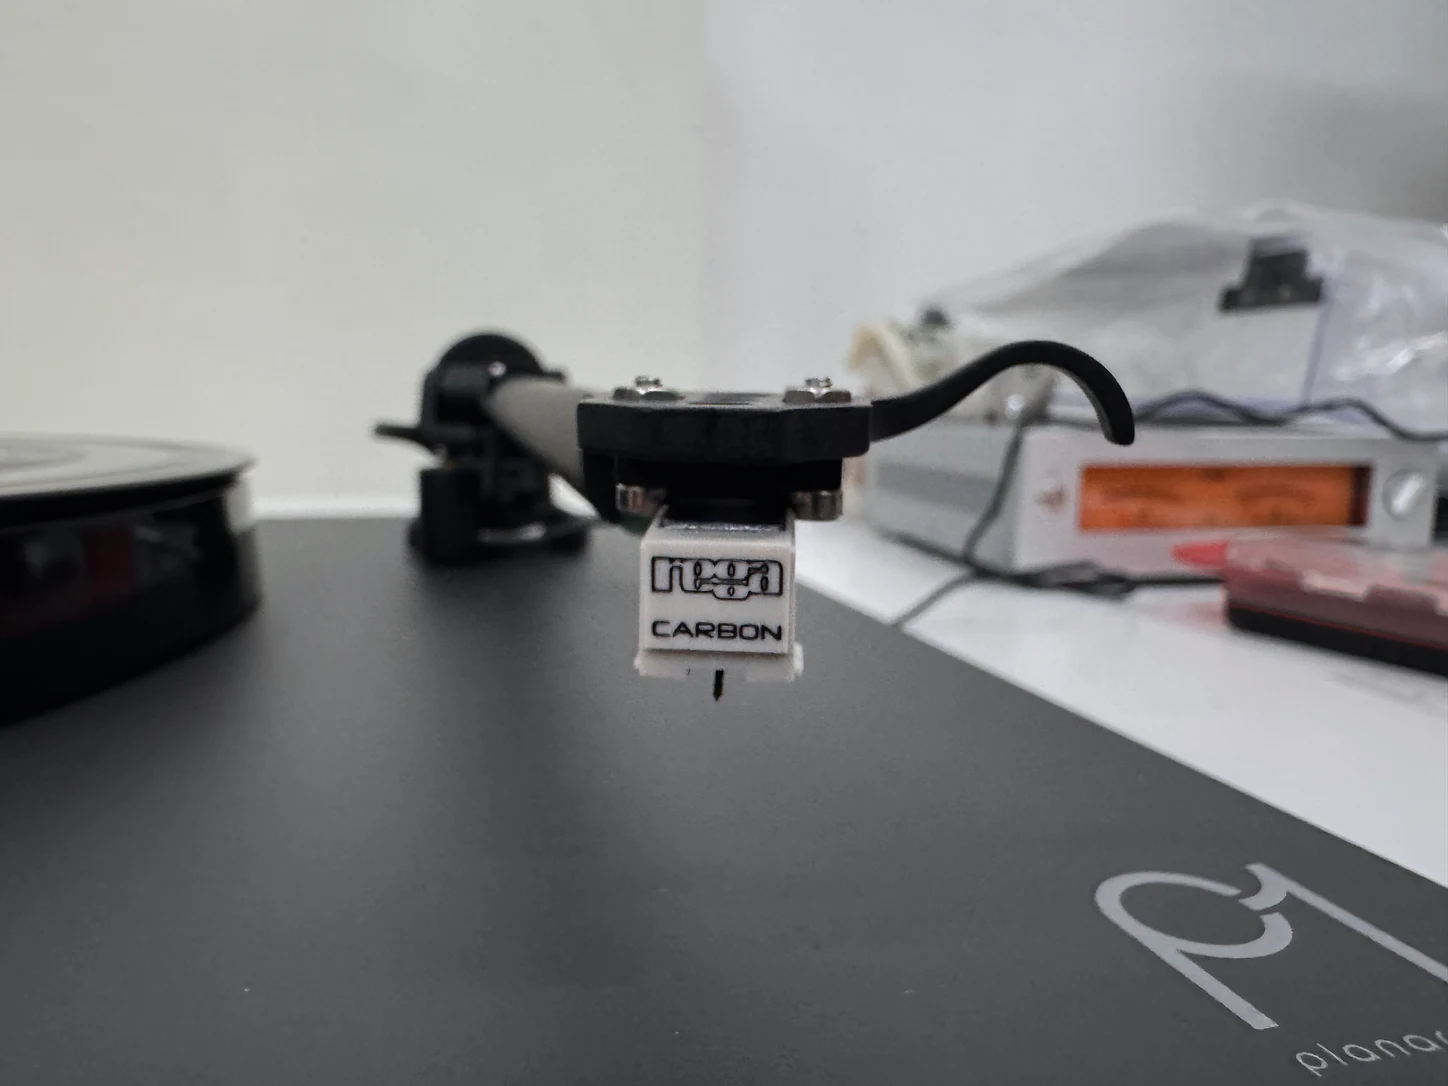
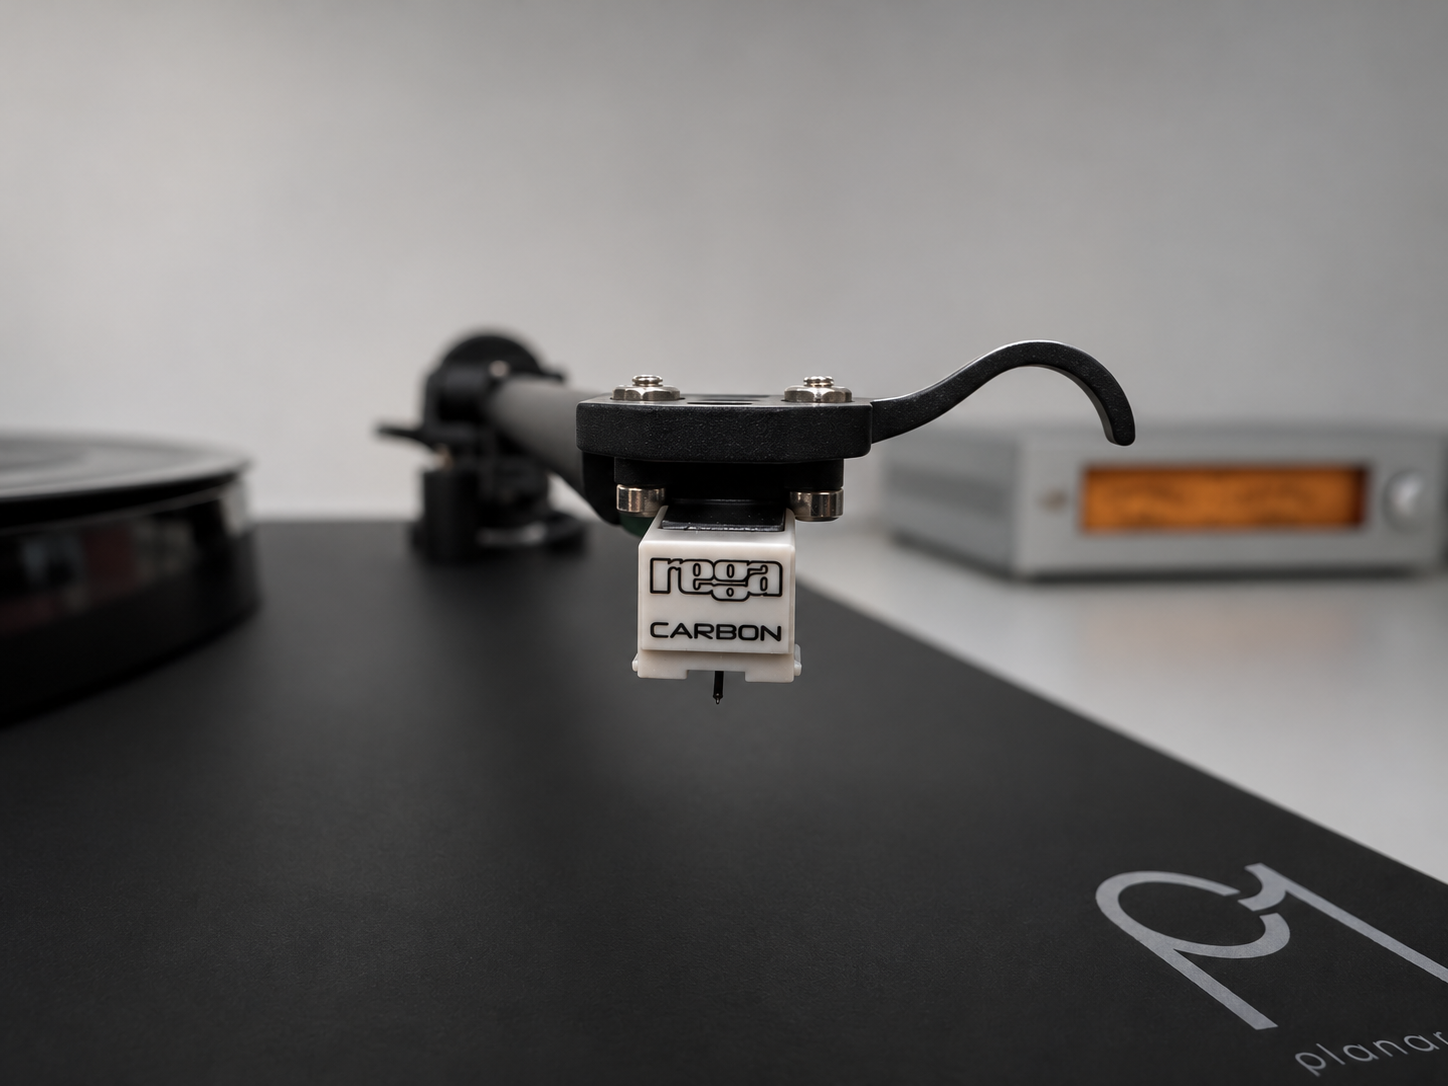
Restore photographic heroes for GS-2026-0012 and GS-2026-0013

diff --git a/docs/groove-scope/measurements/GS-2026-0013.html b/docs/groove-scope/measurements/GS-2026-0013.html
@@ -13,15 +13,15 @@
   <meta property="og:title" content="GS-2026-0013 — Rega P1 / Rega Carbon — 1 kHz Reference Check">
   <meta property="og:description" content="At the AudioReview lab, azimuth adjustment narrowed a 10.27 dB crosstalk gap to 1.16 dB. A separate tracking trial took the Rega Carbon from 60 to 80 µm.">
   <meta property="og:url" content="https://measurements.directsoundrecords.com/groove-scope/measurements/GS-2026-0013.html">
-  <meta property="og:image" content="https://measurements.directsoundrecords.com/groove-scope/assets/GS-2026-0013/web/hero-1448.webp">
+  <meta property="og:image" content="https://measurements.directsoundrecords.com/groove-scope/assets/GS-2026-0013/web/hero-1448.webp?v=2">
   <meta property="og:image:width" content="1448">
   <meta property="og:image:height" content="1086">
-  <meta property="og:image:alt" content="Front view of the Rega Carbon cartridge and headshell on the Rega Planar 1 at the AudioReview laboratory.">
+  <meta property="og:image:alt" content="Rega Carbon cartridge on the Rega Planar 1 at the AudioReview laboratory, with ImageGen retouching.">
   <meta name="twitter:card" content="summary_large_image">
   <meta name="twitter:title" content="GS-2026-0013 — Rega P1 / Rega Carbon — 1 kHz Reference Check">
   <meta name="twitter:description" content="At the AudioReview lab, azimuth adjustment narrowed a 10.27 dB crosstalk gap to 1.16 dB. A separate tracking trial took the Rega Carbon from 60 to 80 µm.">
-  <meta name="twitter:image" content="https://measurements.directsoundrecords.com/groove-scope/assets/GS-2026-0013/web/hero-1448.webp">
-  <link rel="stylesheet" href="../../assets/site.css?v=gs0007-090">
+  <meta name="twitter:image" content="https://measurements.directsoundrecords.com/groove-scope/assets/GS-2026-0013/web/hero-1448.webp?v=2">
+  <link rel="stylesheet" href="../../assets/site.css?v=measurement-photo-hero">
   <script defer src="../../assets/measurement-detail.js"></script>
   <script type="application/ld+json">
   {
@@ -45,10 +45,7 @@
   }
   </script>
   <style>
-    .rega-p1-measurement .measurement-hero{display:grid;grid-template-columns:1fr 1fr;align-items:center;min-height:0}
     .rega-p1-measurement .measurement-hero h1{font-size:clamp(2.55rem,5.5vw,5.15rem)}
-    .rega-p1-measurement .measurement-hero-content{min-width:0}
-    .rega-p1-measurement .measurement-cover{display:block;width:100%;height:auto}
     .rega-p1-measurement .story-column p + p{margin-top:1em}
     .rega-p1-measurement .bench-story .story-column{padding:clamp(22px,3vw,38px);border:1px solid var(--line);border-radius:20px;background:var(--panel)}
     .rega-p1-measurement .bench-story{gap:16px}
@@ -63,9 +60,6 @@
     .rega-p1-measurement .bench-table td{white-space:nowrap}
     .rega-p1-measurement .bench-table tr:last-child th{border-bottom:0}
     .rega-p1-measurement .bench-table-wrap{margin:20px 0 0}
-    @media(max-width:750px){
-      .rega-p1-measurement .measurement-hero{grid-template-columns:1fr}
-    }
   </style>
 </head>
 <body class="measurement-detail rega-p1-measurement">
@@ -78,7 +72,9 @@
   </header>
 
   <main>
-    <section class="measurement-hero measurement-shell" aria-labelledby="measurement-title">
+    <section class="measurement-hero measurement-photo-hero measurement-shell" aria-labelledby="measurement-title">
+      <img class="measurement-hero-image" src="../assets/GS-2026-0013/web/hero-1448.webp?v=2" srcset="../assets/GS-2026-0013/web/hero-1448.webp?v=2 1448w, ../assets/GS-2026-0013/web/hero-2400.webp?v=2 2400w" sizes="(max-width: 900px) 100vw, (max-width: 1290px) 68vw, 844px" width="1448" height="1086" fetchpriority="high" alt="Rega Carbon cartridge on the Rega Planar 1 at the AudioReview laboratory, with ImageGen retouching.">
+      <div class="measurement-hero-overlay" aria-hidden="true"></div>
       <div class="measurement-hero-content">
         <nav class="measurement-breadcrumbs" aria-label="Breadcrumb"><a href="../../">DSR Measurements</a><span aria-hidden="true">/</span><a href="../">Groove Scope Measurements</a></nav>
         <p class="eyebrow">Groove Scope measurement · GS-2026-0013</p>
@@ -90,7 +86,6 @@
           <div><dt>Location</dt><dd>AudioReview laboratory</dd></div>
         </dl>
       </div>
-      <img class="measurement-cover" src="../assets/GS-2026-0013/web/hero-1448.webp" srcset="../assets/GS-2026-0013/web/hero-1448.webp 1448w, ../assets/GS-2026-0013/web/hero-2400.webp 2400w" sizes="(max-width: 750px) 100vw, (max-width: 1290px) 50vw, 620px" width="1448" height="1086" fetchpriority="high" alt="Front view of the Rega Carbon cartridge and headshell on the Rega Planar 1 at the AudioReview laboratory.">
     </section>
 
     <div class="measurement-shell detail-content">

diff --git a/docs/groove-scope/measurements/GS-2026-0012.html b/docs/groove-scope/measurements/GS-2026-0012.html
@@ -21,7 +21,7 @@
   <meta name="twitter:title" content="GS-2026-0012 — Ortofon 2M Bronze / New Horizon — 1 kHz Reference Check">
   <meta name="twitter:description" content="An as-found Ortofon 2M Bronze on a New Horizon turntable shows a recurring speed pattern that evolves across eight revolutions.">
   <meta name="twitter:image" content="https://measurements.directsoundrecords.com/groove-scope/assets/GS-2026-0012/web/hero-1448.webp?v=2">
-  <link rel="stylesheet" href="../../assets/site.css?v=gs0007-090">
+  <link rel="stylesheet" href="../../assets/site.css?v=measurement-photo-hero">
   <script defer src="../../assets/measurement-detail.js"></script>
   <script type="application/ld+json">
   {
@@ -44,14 +44,8 @@
   }
   </script>
   <style>
-    .new-horizon-measurement .measurement-hero{display:grid;grid-template-columns:1fr 1fr;align-items:center;min-height:0}
     .new-horizon-measurement .measurement-hero h1{font-size:clamp(2.55rem,5.5vw,5.15rem)}
-    .new-horizon-measurement .measurement-hero-content{min-width:0}
-    .new-horizon-measurement .measurement-cover{display:block;width:100%;height:auto}
     .new-horizon-measurement .story-column p + p,.new-horizon-measurement .review-summary-panel p + p{margin-top:1em}
-    @media(max-width:750px){
-      .new-horizon-measurement .measurement-hero{grid-template-columns:1fr}
-    }
   </style>
 </head>
 <body class="measurement-detail new-horizon-measurement">
@@ -64,7 +58,9 @@
   </header>
 
   <main>
-    <section class="measurement-hero measurement-shell" aria-labelledby="measurement-title">
+    <section class="measurement-hero measurement-photo-hero measurement-shell" aria-labelledby="measurement-title">
+      <img class="measurement-hero-image" src="../assets/GS-2026-0012/web/hero-1448.webp?v=2" srcset="../assets/GS-2026-0012/web/hero-1448.webp?v=2 1448w, ../assets/GS-2026-0012/web/hero-2400.webp?v=2 2400w" sizes="(max-width: 900px) 100vw, (max-width: 1290px) 68vw, 844px" width="1448" height="1086" fetchpriority="high" alt="New Horizon turntable with an Ortofon 2M Bronze, photographed during the measurement session.">
+      <div class="measurement-hero-overlay" aria-hidden="true"></div>
       <div class="measurement-hero-content">
         <nav class="measurement-breadcrumbs" aria-label="Breadcrumb"><a href="../../">DSR Measurements</a><span aria-hidden="true">/</span><a href="../">Groove Scope Measurements</a></nav>
         <p class="eyebrow">Groove Scope measurement · GS-2026-0012</p>
@@ -75,7 +71,6 @@
           <div><dt>Measured</dt><dd><time datetime="2026-11-05">5 November 2026</time></dd></div>
         </dl>
       </div>
-      <img class="measurement-cover" src="../assets/GS-2026-0012/web/hero-1448.webp?v=2" srcset="../assets/GS-2026-0012/web/hero-1448.webp?v=2 1448w, ../assets/GS-2026-0012/web/hero-2400.webp?v=2 2400w" sizes="(max-width: 750px) 100vw, (max-width: 1290px) 50vw, 620px" width="1448" height="1086" fetchpriority="high" alt="New Horizon turntable with an Ortofon 2M Bronze, photographed during the measurement session.">
     </section>
 
     <div class="measurement-shell detail-content">

diff --git a/docs/groove-scope/index.html b/docs/groove-scope/index.html
@@ -26,7 +26,7 @@
     <div class="results-heading"><h2>Measurements</h2><p id="result-count" role="status" aria-live="polite">10 results</p></div>
     <section id="measurement-list" class="measurement-grid" aria-label="Measurement records">
       <article class="measurement-card" data-date="2026-11-06" data-title="Rega P1 / Rega Carbon" data-search="GS-2026-0013 Rega P1 Planar 1 Rega Carbon ART preamp AudioReview azimuth crosstalk tracking force 1 kHz reference check vinyl playback">
-        <a class="photo-wrap" href="measurements/GS-2026-0013.html" aria-label="Read the Rega P1 / Rega Carbon measurement"><img class="measurement-photo" src="assets/GS-2026-0013/web/hero-1448.webp" width="1448" height="1086" alt="Rega P1 turntable photographed at the AudioReview laboratory." decoding="async"></a>
+        <a class="photo-wrap" href="measurements/GS-2026-0013.html" aria-label="Read the Rega P1 / Rega Carbon measurement"><img class="measurement-photo" src="assets/GS-2026-0013/web/hero-1448.webp?v=2" width="1448" height="1086" alt="Rega Carbon cartridge on the Rega Planar 1 at the AudioReview laboratory, with ImageGen retouching." decoding="async"></a>
         <div class="card-body"><div class="card-kicker"><time datetime="2026-11-06T16:58:00">6 Nov 2026 · 16:58</time></div><h3><a href="measurements/GS-2026-0013.html">Rega P1 / Rega Carbon</a></h3><p class="playback-chain">AudioReview laboratory · ART preamp</p>
         <dl class="levels"><div><dt>Playback speed</dt><dd>33.22 <small>RPM</small></dd></div><div><dt>Speed error</dt><dd>−0.35%</dd></div><div><dt>DIN-shaped W&amp;F</dt><dd>0.036%</dd></div><div><dt>Separation</dt><dd>31.8 <small>dB</small></dd></div></dl>
         <p class="card-summary">The cartridge looked square. An azimuth adjustment cut the crosstalk imbalance from 10.27 to 1.16 dB, and a separate tracking test went from 60 to 80 µm.</p>

diff --git a/docs/assets/site.css b/docs/assets/site.css
@@ -79,6 +79,16 @@ a:focus-visible{outline:2px solid var(--copper);outline-offset:4px;border-radius
 .measurement-hero-image{position:absolute;inset:0;width:100%;height:100%;object-fit:cover;object-position:56% 56%;filter:saturate(.82) contrast(1.08) brightness(.76)}
 .measurement-hero-overlay{position:absolute;inset:0;background:linear-gradient(90deg,rgba(5,8,12,.94) 0%,rgba(5,8,12,.74) 39%,rgba(5,8,12,.2) 70%),linear-gradient(0deg,rgba(5,8,12,.94),transparent 54%);z-index:1}
 .measurement-hero-content{position:relative;z-index:2;padding:clamp(28px,6vw,70px);max-width:850px}
+.measurement-photo-hero{min-height:clamp(520px,50vw,690px)}
+.measurement-photo-hero .measurement-hero-image{left:auto;width:68%;object-position:58% center;filter:none}
+.measurement-photo-hero .measurement-hero-overlay{background:linear-gradient(90deg,#0b1016 32%,rgba(11,16,22,.82) 38%,transparent 63%),linear-gradient(0deg,rgba(5,8,12,.56),transparent 36%)}
+.measurement-photo-hero .measurement-hero-content{max-width:550px}
+@media(max-width:900px){
+  .measurement-photo-hero.measurement-hero{display:block;min-height:0}
+  .measurement-photo-hero .measurement-hero-image{position:static;display:block;width:100%;height:auto}
+  .measurement-photo-hero .measurement-hero-overlay{display:none}
+  .measurement-photo-hero .measurement-hero-content{max-width:none}
+}
 .measurement-breadcrumbs{display:flex;align-items:center;gap:9px;flex-wrap:wrap;color:var(--muted);font-size:.78rem;margin:0 0 28px}
 .measurement-breadcrumbs a{color:var(--mint)}
 .measurement-hero h1{font-size:clamp(2.55rem,6.1vw,5.65rem);line-height:.94;letter-spacing:-.055em;margin:0;max-width:820px;text-wrap:balance}

diff --git a/measurements/GS-2026-0013/README.md b/measurements/GS-2026-0013/README.md
@@ -8,7 +8,7 @@ Thanks to Mauro Neri, director of *AudioReview*, for making the laboratory sessi
 
 ## Record status
 
-Public archive draft. Measured 6 November 2026 at 16:58 local time. The report does not record a timezone. Published 6 November 2026. Record version 0.9.0.
+Public archive draft. Measured 6 November 2026 at 16:58 local time. The report does not record a timezone. Published 6 November 2026. Record version 0.9.1.
 
 ## Playback chain
 
@@ -82,7 +82,7 @@ The original screenshots cover speed deviation, 1 kHz level modulation, opposite
 
 The PDF documents the adjusted 1 kHz capture. The laboratory location, initial readings, azimuth adjustment and tracking trial come from the measurer’s session account. The physical azimuth angle, anti-skate, loading, alignment geometry, test record and track, repeat count, capture settings and software versions were not recorded. The results describe the playback chain as a whole.
 
-The archived setup photograph is a full-resolution JPEG from the supplied HEIC with embedded metadata stripped. ImageGen previewed cosmetic cleanup and neutral lighting. The published retouch applies a tonal grade to the original photograph and preserves the geometry of the cartridge, stylus and mounting hardware.
+The archived setup photograph is a full-resolution JPEG from the supplied HEIC with embedded metadata stripped. The editorial image is the ImageGen retouch of that photograph, with adjusted lighting and background cleanup. The archived source photograph documents the setup.
 
 ## Files
 
@@ -100,4 +100,5 @@ Canonico, Michelangelo. “GS-2026-0013 — Rega P1 / Rega Carbon — 1 kHz Refe
 
 ## Changelog
 
+- 0.9.1 — Published the ImageGen retouch as the editorial photograph.
 - 0.9.0 — Initial public entry with the reference report, eight Rotation Fingerprints, setup photograph and the measurer’s account of the azimuth and tracking trials.

diff --git a/CHANGELOG.md b/CHANGELOG.md
@@ -2,6 +2,11 @@
 
 All notable repository and measurement-record changes are documented here.
 
+## 1.1.9 — 2026-11-06
+
+- Published the ImageGen retouch for the Rega P1 measurement and advanced GS-2026-0013 to 0.9.1.
+- Restored the earlier photographic hero layout on the Rega P1 and New Horizon measurement pages.
+
 ## 1.1.8 — 2026-11-06
 
 - Added GS-2026-0013, a 1 kHz reference check of the Rega P1 and Rega Carbon at the AudioReview laboratory.
